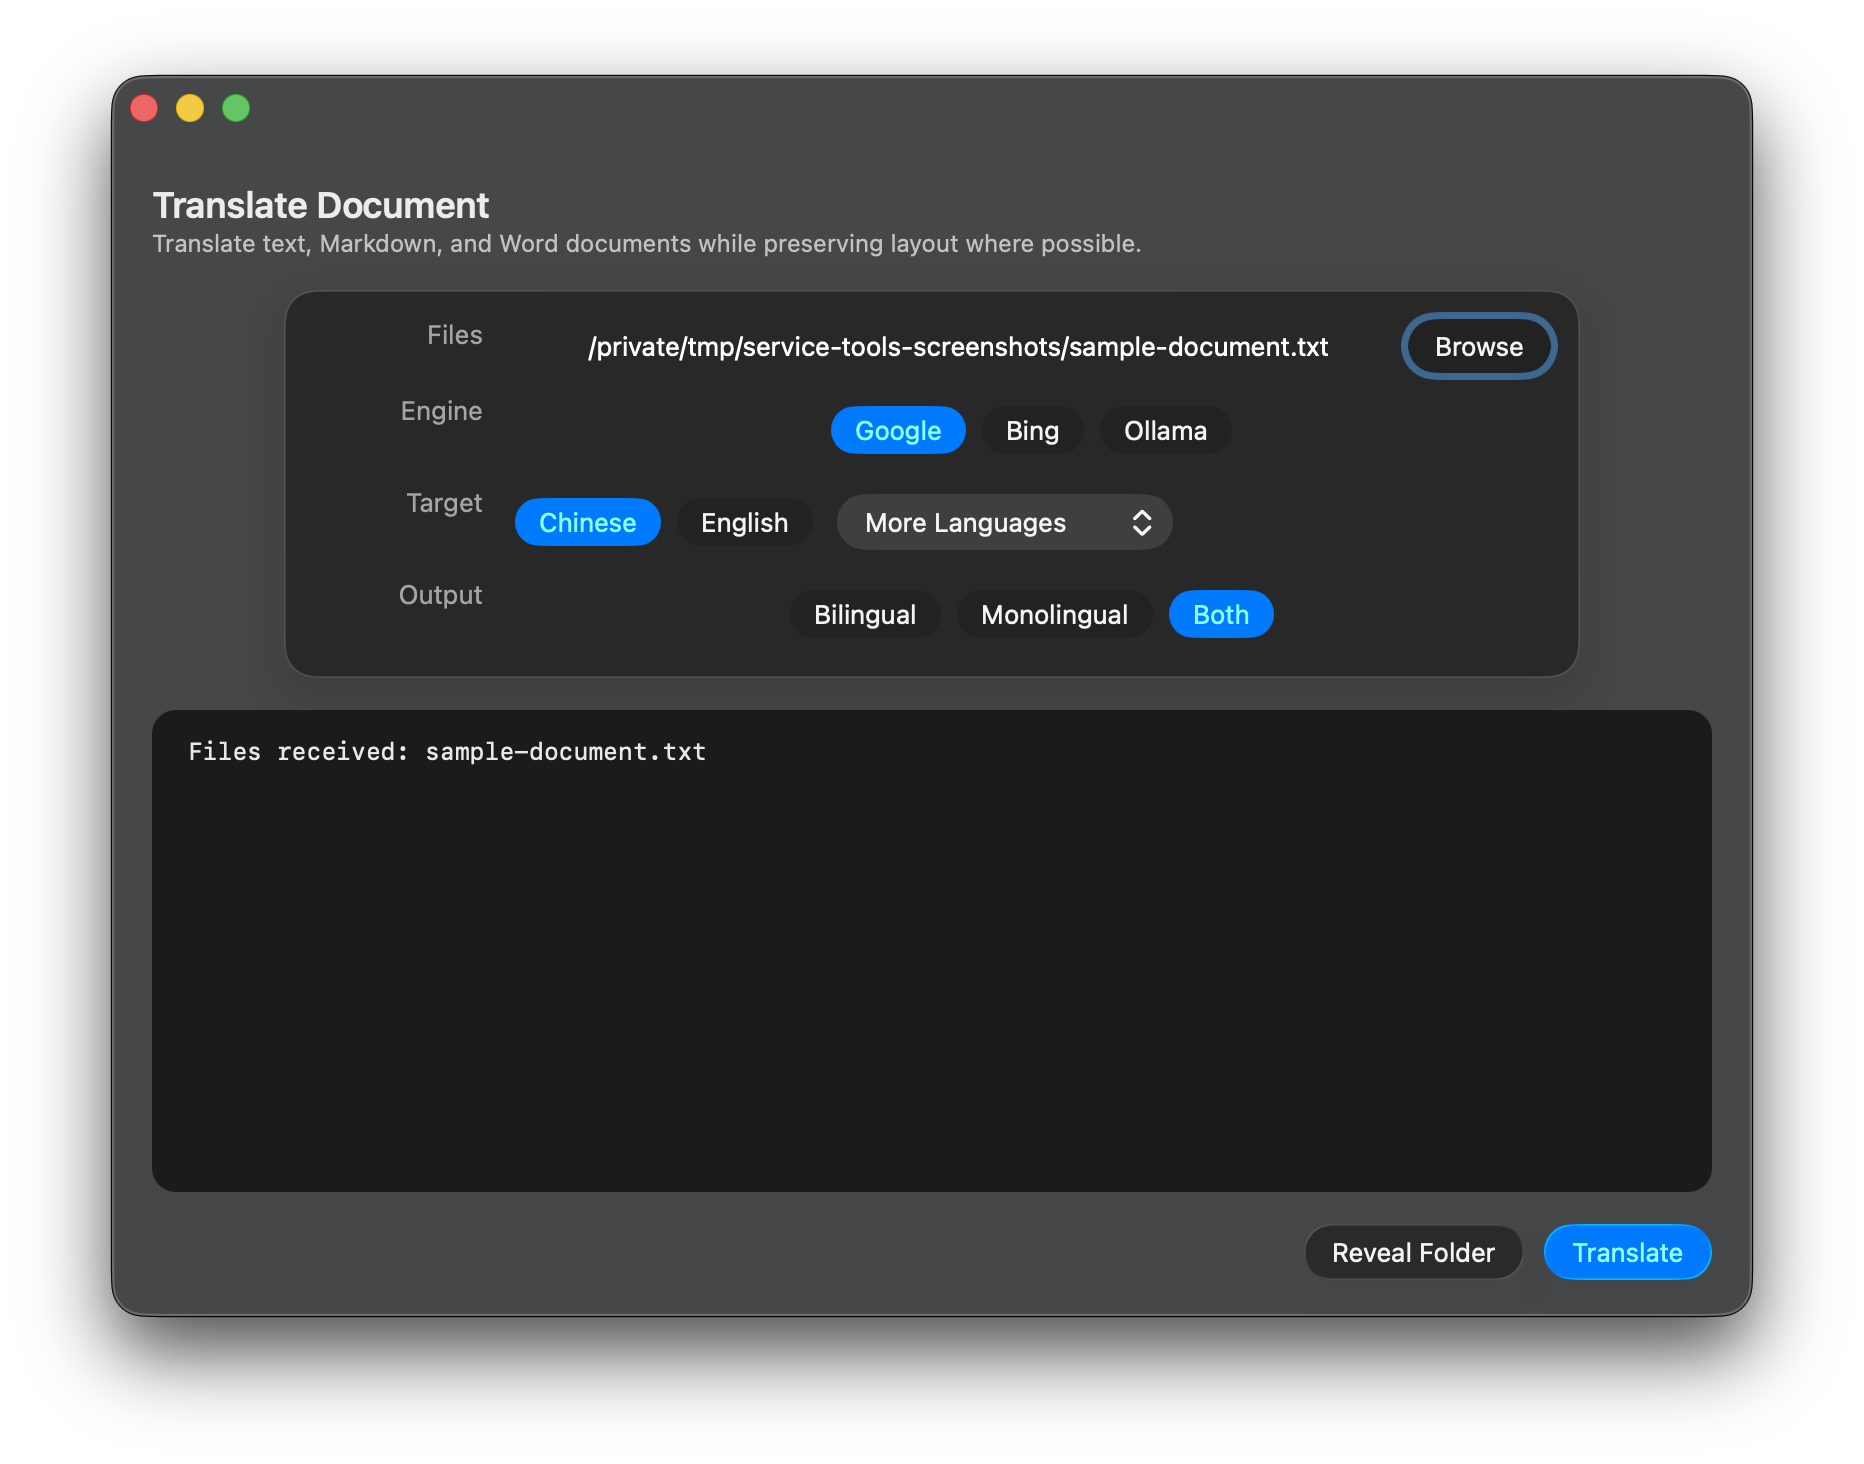
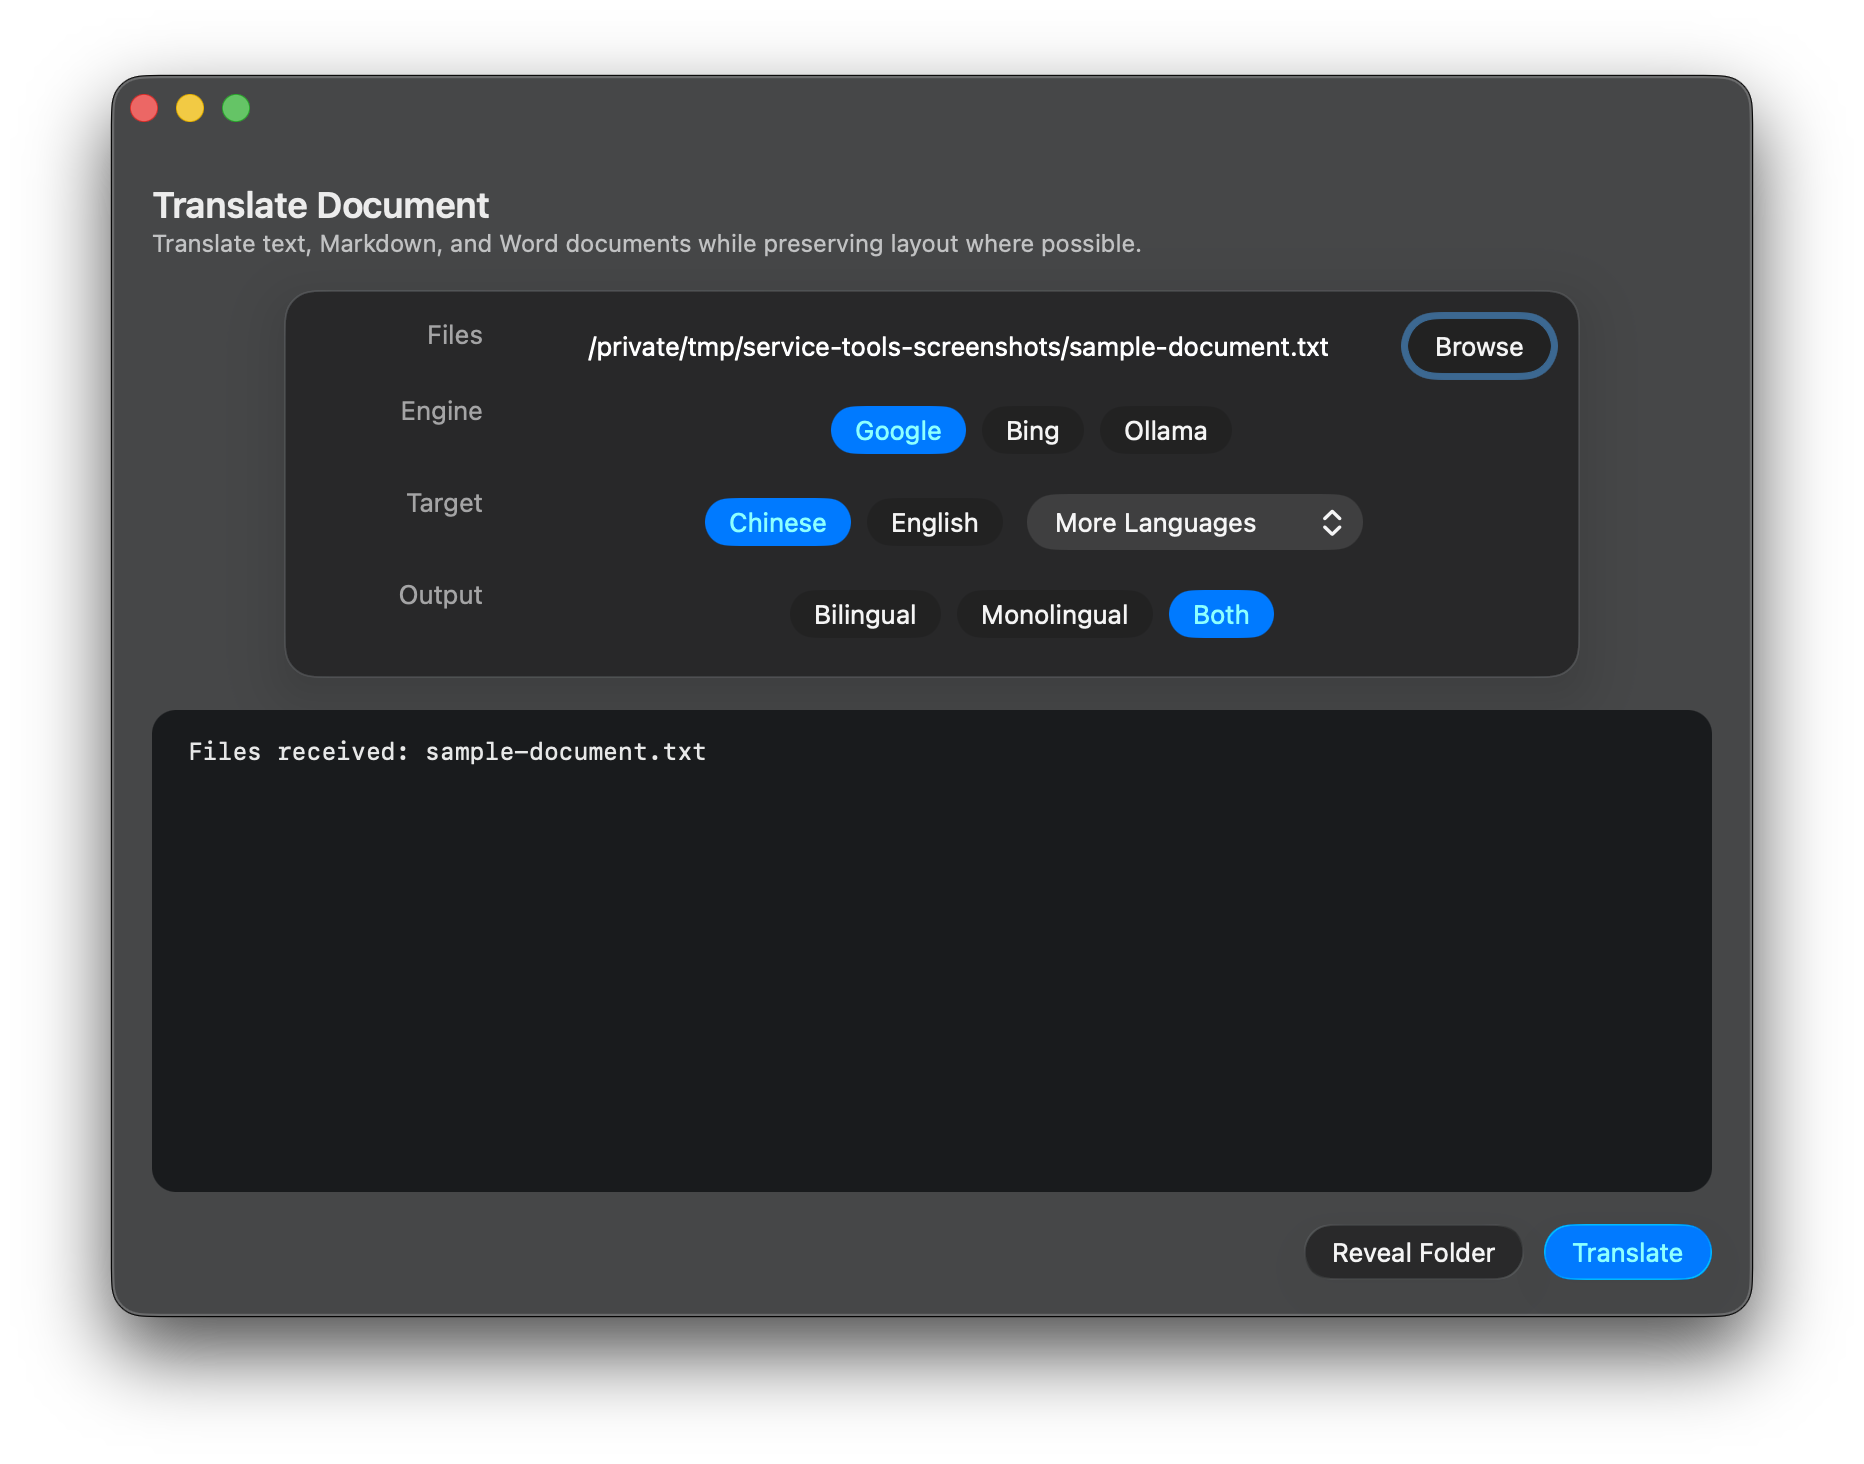
Center target language controls

Changed region(s): [[0.28, 0.3381, 0.6845, 0.3996]]

diff --git a/app/Sources/TranslationTools.swift b/app/Sources/TranslationTools.swift
@@ -623,14 +623,31 @@ final class TranslationToolsApp: NSObject, NSApplicationDelegate, NSWindowDelega
         return segmented(items)
     }
 
-    private func targetLanguageControl() -> NSStackView {
+    private func targetLanguageControl() -> NSView {
         let stack = NSStackView(views: [targetQuickControl, targetLanguagePopup])
         stack.orientation = .horizontal
         stack.spacing = 10
         stack.alignment = .centerY
-        targetQuickControl.setContentHuggingPriority(.defaultLow, for: .horizontal)
+        stack.translatesAutoresizingMaskIntoConstraints = false
+        stack.setContentHuggingPriority(.defaultHigh, for: .horizontal)
+        stack.setContentCompressionResistancePriority(.required, for: .horizontal)
+        targetQuickControl.setContentHuggingPriority(.defaultHigh, for: .horizontal)
         targetLanguagePopup.setContentHuggingPriority(.defaultHigh, for: .horizontal)
-        return stack
+
+        let container = NSView()
+        container.translatesAutoresizingMaskIntoConstraints = false
+        container.setContentHuggingPriority(.defaultLow, for: .horizontal)
+        container.setContentCompressionResistancePriority(.defaultLow, for: .horizontal)
+        container.addSubview(stack)
+
+        NSLayoutConstraint.activate([
+            stack.centerXAnchor.constraint(equalTo: container.centerXAnchor),
+            stack.topAnchor.constraint(equalTo: container.topAnchor),
+            stack.bottomAnchor.constraint(equalTo: container.bottomAnchor),
+            stack.leadingAnchor.constraint(greaterThanOrEqualTo: container.leadingAnchor),
+            stack.trailingAnchor.constraint(lessThanOrEqualTo: container.trailingAnchor),
+        ])
+        return container
     }
 
     private func selectedTargetLanguage() -> String {

diff --git a/tests/test_repository_hygiene.py b/tests/test_repository_hygiene.py
@@ -42,6 +42,11 @@ class RepositoryHygieneTests(unittest.TestCase):
         self.assertIn("Bundle.main.bundleURL.deletingLastPathComponent()", source)
         self.assertNotIn("/" + "Users/", source)
 
+    def test_target_language_group_is_centered_in_form_column(self) -> None:
+        source = (ROOT / "app" / "Sources" / "TranslationTools.swift").read_text(encoding="utf-8")
+        self.assertIn("private func targetLanguageControl() -> NSView", source)
+        self.assertIn("stack.centerXAnchor.constraint(equalTo: container.centerXAnchor)", source)
+
     def test_workflows_use_portable_home_directory(self) -> None:
         workflow_files = sorted((ROOT / "workflows").glob("*.workflow/Contents/document.wflow"))
         self.assertEqual(7, len(workflow_files))

diff --git a/CHANGELOG.md b/CHANGELOG.md
@@ -17,6 +17,10 @@
 - Made worker discovery relative to the application bundle.
 - Updated public documentation with complete feature, dependency, privacy, and troubleshooting information.
 
+### Fixed
+
+- Centered the combined target-language controls consistently across PDF, document, image, and audio tools.
+
 ### Preserved
 
 - The original Python/Tk implementation remains available under `legacy/tk` for reference and existing users.